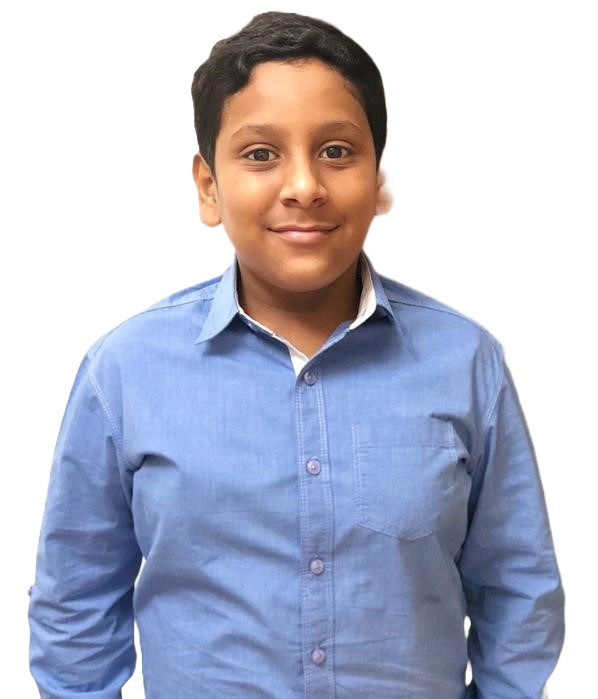
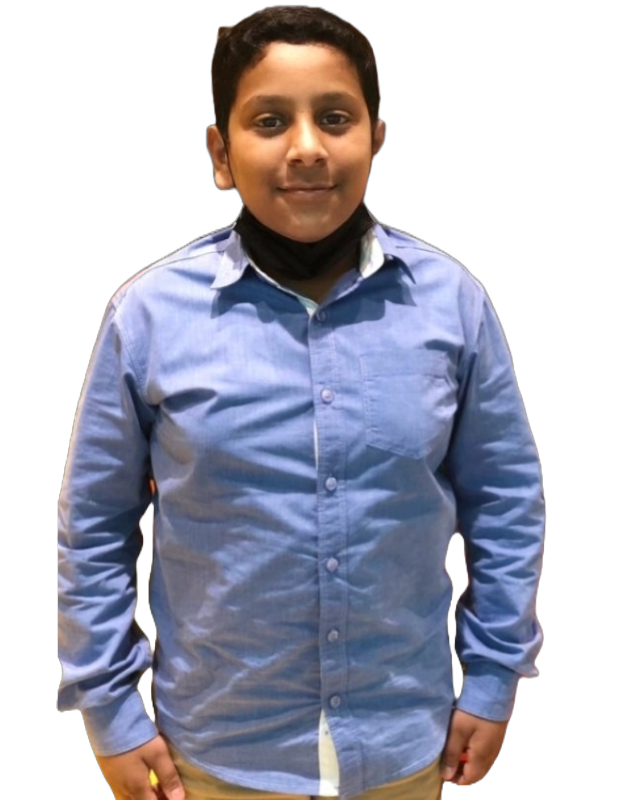
picture

diff --git a/index.html b/index.html
@@ -118,7 +118,7 @@
                         </pattern>
                   
                         <!-- Insert your profile (recommended size: 640 x 940) -->
-                        <image class="home__img"     id="imageBlob" width="640" height="925" href=""/>
+                        <image class="home__img"           id="imageBlob" width="640" height="900" href="assets/img/perfil.png"/>
                      </defs>
                   </svg>
                  </div>
